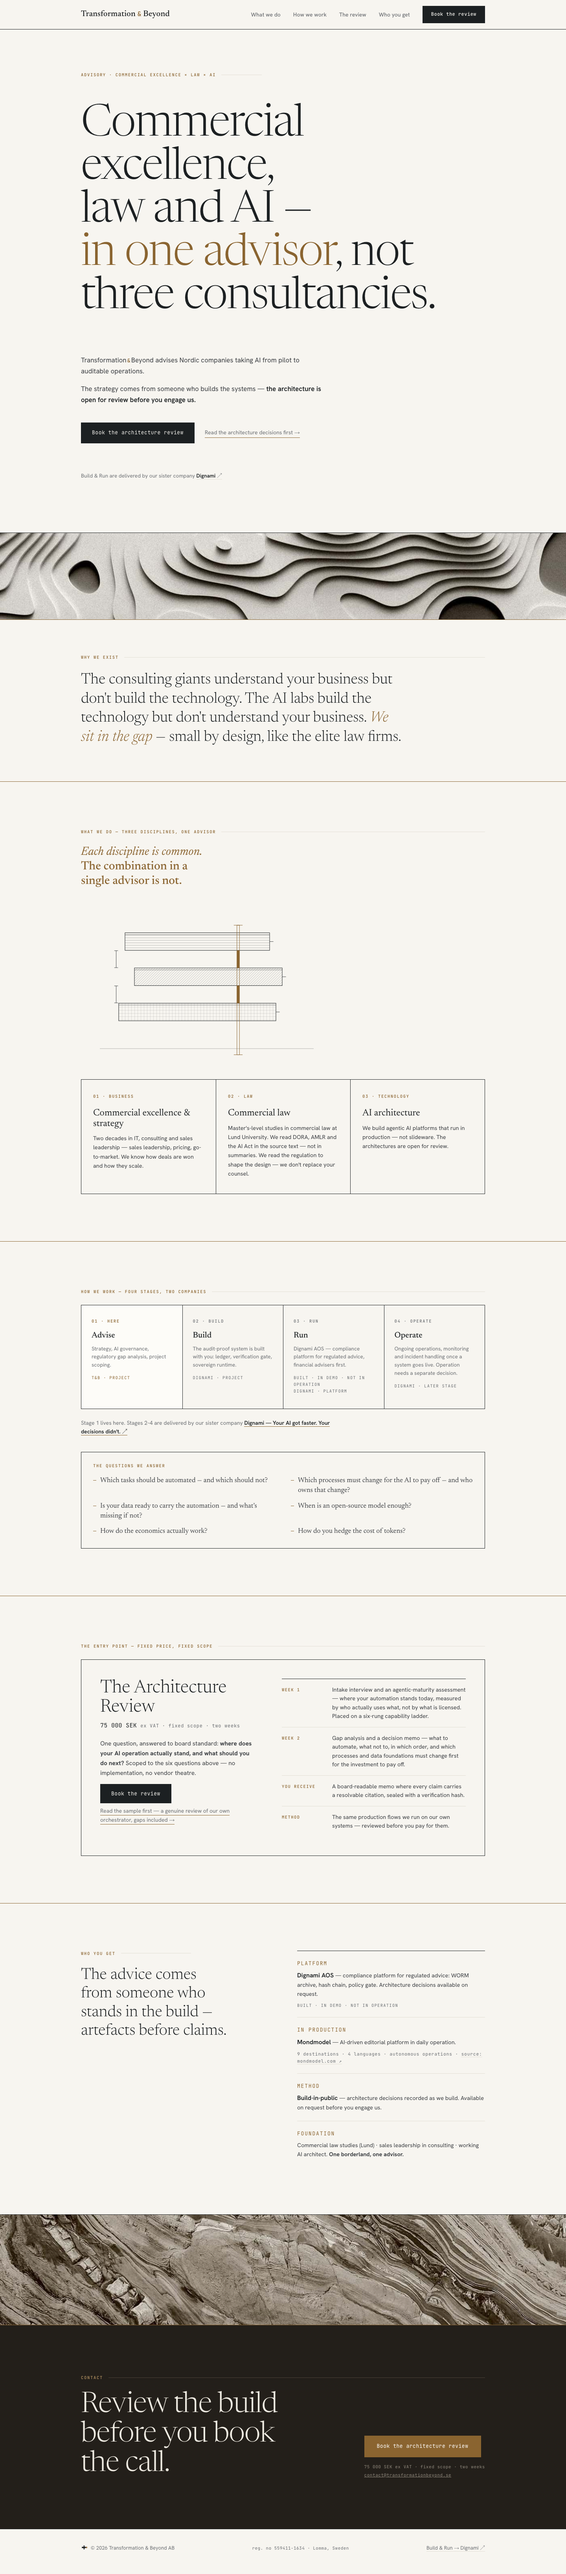
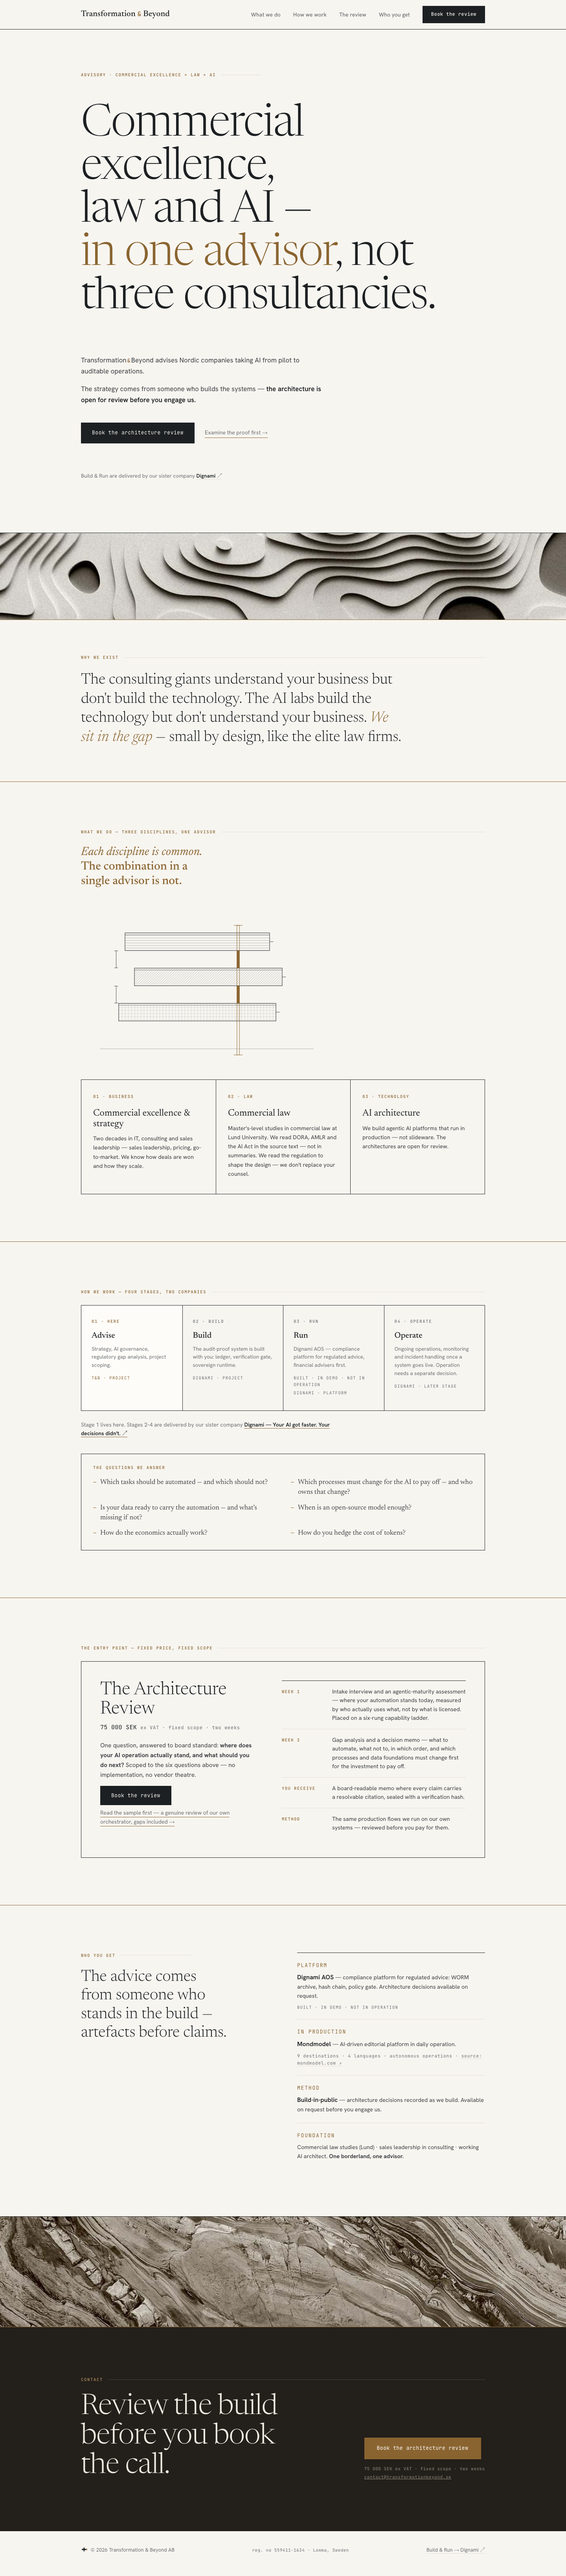
fix: align hero proof link with destination
— Coder (Codex GPT) on behalf of Conny Wadbro

Seat: conny

diff --git a/index.html b/index.html
@@ -86,6 +86,7 @@
   .stage p{font-size:13.5px;color:var(--muted);margin:0 0 14px;line-height:1.55}
   .stage .who{font-family:var(--mono);font-size:10.5px;letter-spacing:.12em;text-transform:uppercase;color:var(--muted)}
   .status{display:block;margin-top:10px;font-family:var(--mono);font-size:10.5px;letter-spacing:.12em;text-transform:uppercase;color:var(--muted)}
+  .stage .status{margin-bottom:4px}
   .stage.here{background:#FDFCF8}
   .stage.here .who{color:var(--bronze)}
   .arc-note{font-size:14px;color:var(--muted);margin-top:24px;max-width:46em}
@@ -188,7 +189,7 @@
       <p class="lede r-fade">The strategy comes from someone who builds the systems — <b>the architecture is open for review before you engage us.</b></p>
       <div class="hero-ctas r-fade">
         <a class="cta-big" href="#kontakt">Book the architecture review</a>
-        <a class="proof-link" href="https://www.dignami.com/en/proof" target="_blank" rel="noopener">Read the architecture decisions first →</a>
+        <a class="proof-link" href="https://www.dignami.com/en/proof" target="_blank" rel="noopener">Examine the proof first →</a>
       </div>
       <p class="hero-base r-fade">Build &amp; Run are delivered by our sister company <a href="https://www.dignami.com/en" target="_blank" rel="noopener"><b>Dignami</b> ↗</a></p>
     </div>
